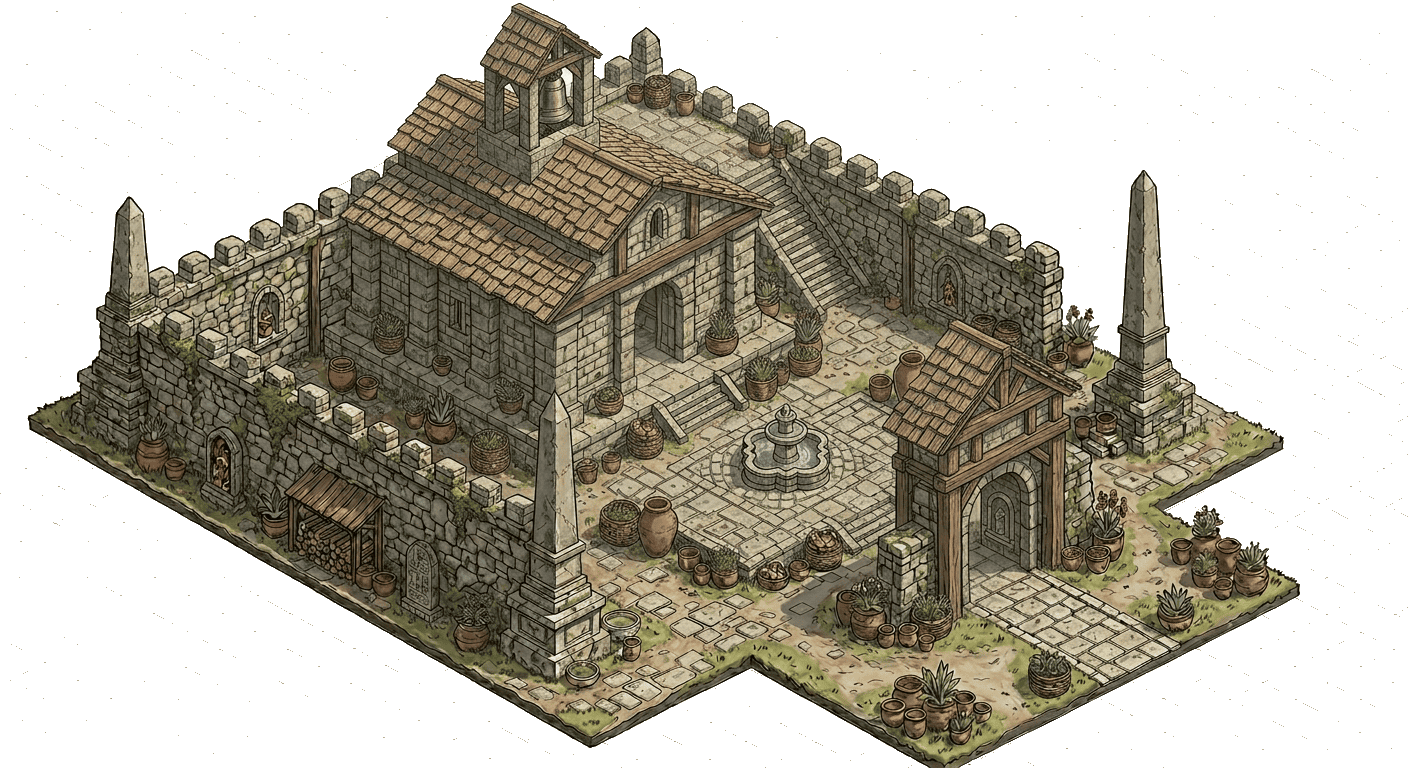
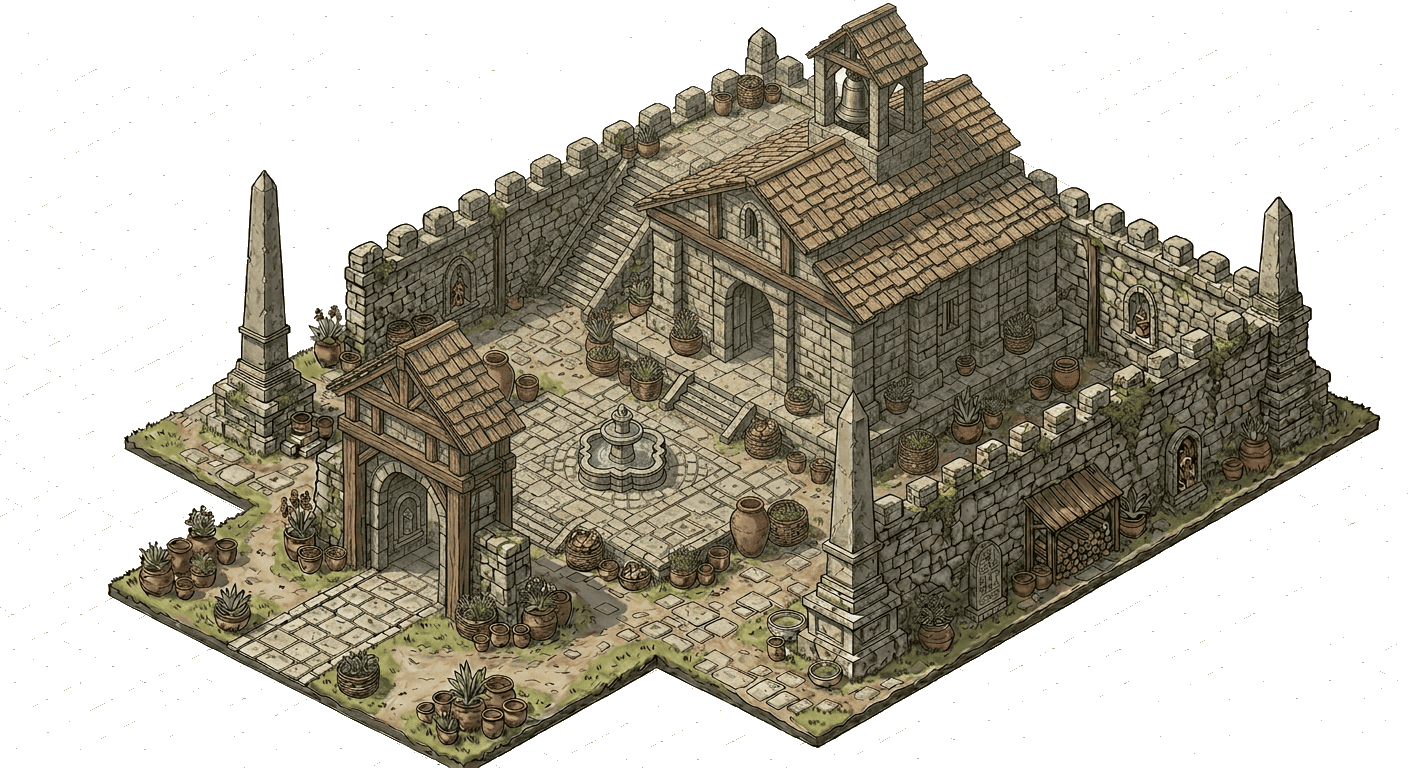
temple: flip zone orientation, clean background, remove procedural blocks
- temple.png: reprocessed from temple_roman.png with 25% fuzz (25 seed
  points), no horizontal flip — entrance gate now faces approaching player
- zones.js: flipped zone layout so player enters from south (row 18),
  walks north to temple at north end (row 3). Exit moved to rows 20-21.
  Removed all T.WALL procedural ruins/stone-circle tiles (replaced with
  T.DIRT so no 3D blocks render). Temple grounds also use T.DIRT so PNG
  overlay is never hidden under procedural geometry.
- renderer-assets.js: SCENE_DECO positions updated for new orientation —
  gate at row 17 (south/entry), walls at row 11, obelisks at row 8,
  temple at row 3 (north end).
- scene.js: entryPos temple_path updated to col:13, row:18.

https://claude.ai/code/session_017N2r3NWzC87ShVjMjw7b1V

diff --git a/zones.js b/zones.js
@@ -90,36 +90,31 @@ function buildTempleMap() {
   const g = Array.from({length:rows}, ()=>Array(cols).fill(T.TREE));
   const fill=(r,c,h,w,t)=>{ for(let i=r;i<r+h;i++) for(let j=c;j<c+w;j++){ if(i>=0&&i<rows&&j>=0&&j<cols) g[i][j]=t; }};
 
-  // Entry from north — connects to village south exit (cols 19-20 in village → cols 13-14 here)
-  g[0][13]=T.EXIT; g[0][14]=T.EXIT; g[1][13]=T.EXIT; g[1][14]=T.EXIT;
+  // Exit back to village — south end of map (player enters here from village)
+  g[20][13]=T.EXIT; g[20][14]=T.EXIT; g[21][13]=T.EXIT; g[21][14]=T.EXIT;
 
-  // Long ceremonial path south
-  for(let r=2;r<19;r++){ g[r][13]=T.PATH; g[r][14]=T.PATH; }
+  // Long ceremonial path heading north toward the temple
+  for(let r=2;r<20;r++){ g[r][13]=T.PATH; g[r][14]=T.PATH; }
 
-  // Wide entry plaza
-  fill(1,10,4,8,T.DIRT);
+  // Wide entry plaza at south (where player arrives)
+  fill(17,10,4,8,T.DIRT);
 
-  // Ancient stone ruins flanking path
-  fill(5,5,5,4,T.DIRT);   // west ruins
-  fill(5,19,5,4,T.DIRT);  // east ruins
-  g[5][5]=T.WALL;  g[5][6]=T.WALL;  g[5][8]=T.WALL;
-  g[5][19]=T.WALL; g[5][20]=T.WALL; g[5][22]=T.WALL;
-  g[8][5]=T.WALL;  g[8][8]=T.WALL;
-  g[8][19]=T.WALL; g[8][22]=T.WALL;
+  // Open dirt areas flanking path mid-map (wall decos and obelisks sit here)
+  fill(5,5,6,4,T.DIRT);   // west
+  fill(5,19,6,4,T.DIRT);  // east
 
-  // Mid clearing — stone circle
-  fill(9,9,5,10,T.DIRT);
-  [[10,11],[10,12],[10,14],[10,15],[12,11],[12,15],[11,10],[11,16]].forEach(([r,c])=>g[r][c]=T.WALL);
+  // Mid clearing
+  fill(6,9,6,10,T.DIRT);
 
-  // Temple grounds at south — open dirt plaza behind the PNG overlay
-  fill(16,9,5,10,T.DIRT);
+  // Temple grounds at north end — open dirt (temple PNG covers this area)
+  fill(0,7,6,14,T.DIRT);
 
   // Grass clearings beside path
   fill(3,5,14,5,T.GRASS);  // west
   fill(3,18,14,5,T.GRASS); // east
 
   // Flowers/atmosphere
-  [[4,6],[6,7],[13,6],[14,7],[4,20],[6,21],[13,21]].forEach(([r,c])=>{
+  [[17,8],[15,6],[9,6],[8,7],[17,19],[15,21],[9,21]].forEach(([r,c])=>{
     if(g[r][c]===T.GRASS||g[r][c]===T.DIRT) g[r][c]=T.FLOWER;
   });
 
@@ -224,19 +219,19 @@ const ZONES = {
     id:'temple_path', name:'The Old Temple Road',
     grid: buildTempleMap(),
     items:[
-      { itemId:'stone_fragment', col:6,  row:6,  label:'Carved stone in the ruins',       respawn:false },
-      { itemId:'stone_fragment', col:21, row:7,  label:'Worn stone with faded markings',  respawn:false },
-      { itemId:'common_herb',   col:6,  row:13, label:'Herbs growing in old stonework',   respawn:true  },
-      { itemId:'common_herb',   col:21, row:12, label:'Herbs in the east ruins',          respawn:true  },
-      { itemId:'lavender',      col:7,  row:4,  label:'Lavender beside the path',         respawn:true  },
+      { itemId:'stone_fragment', col:6,  row:11, label:'Carved stone in the ruins',       respawn:false },
+      { itemId:'stone_fragment', col:21, row:10, label:'Worn stone with faded markings',  respawn:false },
+      { itemId:'common_herb',   col:6,  row:7,  label:'Herbs growing in old stonework',   respawn:true  },
+      { itemId:'common_herb',   col:21, row:6,  label:'Herbs in the east ruins',          respawn:true  },
+      { itemId:'lavender',      col:7,  row:18, label:'Lavender beside the path',         respawn:true  },
     ],
     stations:[],
     npcs:[],
     exits:[
-      { label:'Return to village', targetScene:'village', fromZone:'temple_path', col:13, row:0 },
-      { label:'Return to village', targetScene:'village', fromZone:'temple_path', col:14, row:0 },
-      { label:'Return to village', targetScene:'village', fromZone:'temple_path', col:13, row:1 },
-      { label:'Return to village', targetScene:'village', fromZone:'temple_path', col:14, row:1 },
+      { label:'Return to village', targetScene:'village', fromZone:'temple_path', col:13, row:20 },
+      { label:'Return to village', targetScene:'village', fromZone:'temple_path', col:14, row:20 },
+      { label:'Return to village', targetScene:'village', fromZone:'temple_path', col:13, row:21 },
+      { label:'Return to village', targetScene:'village', fromZone:'temple_path', col:14, row:21 },
     ],
   },
 

diff --git a/renderer-assets.js b/renderer-assets.js
@@ -287,16 +287,16 @@ const SCENE_DECO = {
     { img:'stall_cooking', col:24, row:10, size:80, yOff:0 },
   ],
   temple_path: [
-    // Entrance gate across the ceremonial path
-    { img:'temple_gate',    col:13, row:2,  size:140, yOff:0 },
-    // Ancient wall sections where the flanking ruins used to be
-    { img:'temple_wall',    col:6,  row:7,  size:120, yOff:0 },
-    { img:'temple_wall',    col:21, row:7,  size:120, yOff:0 },
+    // Main temple at the north end — player walks toward this
+    { img:'temple',         col:13, row:3,  size:420, yOff:0 },
     // Obelisks flanking the path mid-way
-    { img:'temple_obelisk', col:10, row:9,  size:100, yOff:0 },
-    { img:'temple_obelisk', col:17, row:9,  size:100, yOff:0 },
-    // Main temple at the end of the ceremonial road
-    { img:'temple',         col:13, row:16, size:420, yOff:0 },
+    { img:'temple_obelisk', col:10, row:8,  size:100, yOff:0 },
+    { img:'temple_obelisk', col:17, row:8,  size:100, yOff:0 },
+    // Ancient wall sections flanking the path
+    { img:'temple_wall',    col:6,  row:11, size:120, yOff:0 },
+    { img:'temple_wall',    col:21, row:11, size:120, yOff:0 },
+    // Entrance gate at the south end — first thing player passes through
+    { img:'temple_gate',    col:13, row:17, size:140, yOff:0 },
   ],
 };
 

diff --git a/scene.js b/scene.js
@@ -76,7 +76,7 @@ function loadScene(sceneId, fromBuildingId, fromZone) {
 
     // Place player at the entry point (opposite edge from the exit)
     const entryPos = { forest:{col:28,row:10}, garden:{col:10,row:24},
-                       temple_path:{col:13,row:2}, market:{col:3,row:10} };
+                       temple_path:{col:13,row:18}, market:{col:3,row:10} };
     const pos = entryPos[sceneId] || { col:Math.floor(mapCols/2), row:Math.floor(mapRows/2) };
     player.col=pos.col; player.row=pos.row;
     player.px=isoX(player.col,player.row); player.py=isoY(player.col,player.row);
